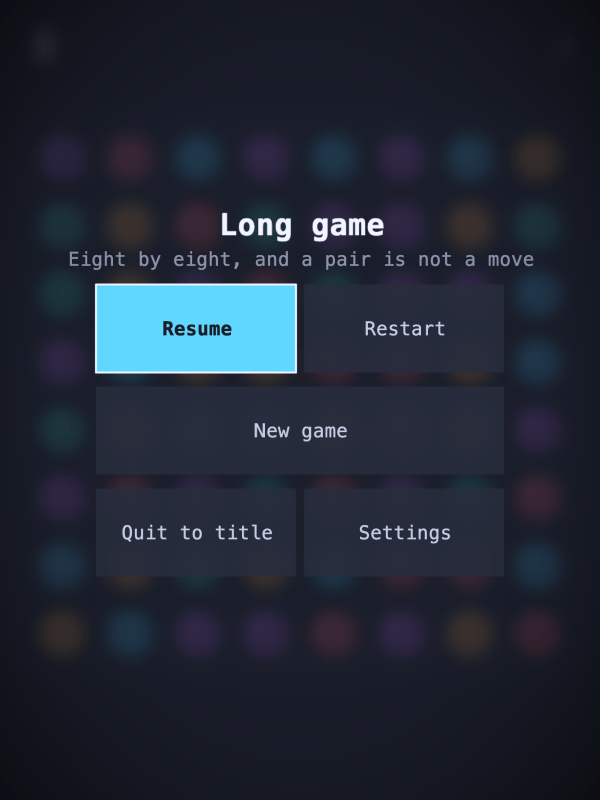
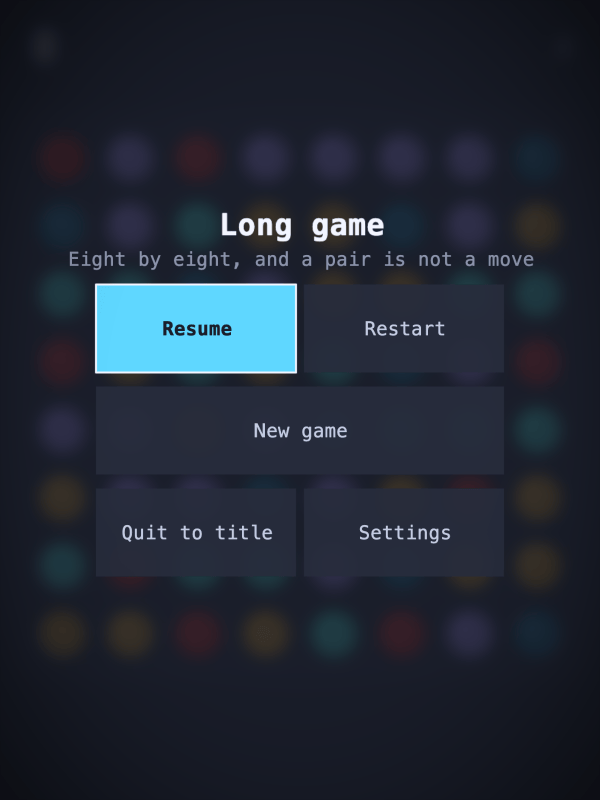
Dot colours chosen for the worst pair, and a paper light theme
Both sets were measured and both failed something. The dark theme's blue
and teal were ΔE 11.9 apart for a player with full colour vision, under
the 15 floor, and its worst pair under a red-green deficiency was 10.1
against a target of 8. The light theme's blue and orange sat at 1.71:1
and 1.92:1 against the well they are drawn on.

Each set is now the answer to a search over OKLCH: the five whose worst
pair is furthest apart under normal, protan, deutan and tritan vision at
once, every dot clearing 3:1 against its own grounds, no two hues within
34 degrees, and each hue held within 20 degrees of the one it replaces so
purple is still purple. Worst pair, colour-blind: 18.3 dark and 16.9
light, against 10.1 and 12.1. Full colour: 25.0 and 17.4.

One set for both themes was the other option and costs about half of
that - a colour far from near-black and far from paper is confined to a
narrow band of lightness, and five hues in one band lose the lightness
differences a deficiency has left to go on. Two sets were already what
the file holds, so keeping two is free.

The light theme is paper rather than paper-white, which the same search
says is free: measured across grounds from white down to Y 0.67, where it
sits makes no difference to how far apart the five can be kept. So it is
chosen for what it is like to look at. The inks are warmed with it and
hold their old lightness, so nothing that passed before stops passing.
[…]

diff --git a/src/palette.js b/src/palette.js
@@ -6,9 +6,26 @@
 //
 // The dot hues are the 32blit game's, which in turn are the original RaphaelJS
 // game's: purple, blue, teal, red, orange. `base` is a dot at rest and `bright`
-// is one in the chain, exactly the pairing the 32blit version drew with. The dark
-// theme lifts both, since a saturated mid-tone that reads well on white goes muddy
-// on near-black.
+// is one in the chain, exactly the pairing the 32blit version drew with. Each theme
+// carries its own set, since a saturated mid-tone that reads well on paper goes muddy
+// on near-black - and one set for both grounds costs most of what separates the five.
+//
+// The five are chosen, not picked: a search over OKLCH for the set whose *worst pair* is
+// furthest apart, under normal vision and under simulated protanopia, deuteranopia and
+// tritanopia at once, subject to every dot clearing 3:1 against the board it sits on and
+// no two hues landing within 34 degrees of each other. Each hue is held within 20 degrees
+// of the one it replaces, so purple is still purple. Distance is measured in OKLab and the
+// deficiencies with the Machado 2009 matrices, clamped back into sRGB before measuring -
+// unclamped, a simulation that has merely left the gamut reads as two colours far apart.
+//
+// What that buys, as the worst pair in each set: 18.3 against 10.1 for the dark theme, and
+// 16.9 against 12.1 for the light one, where 8 is the least a pair can differ by and still
+// be told apart without a second channel to go on.
+//
+// `bright` is derived rather than chosen: the same hue and chroma, lifted 0.07 in OKLCH
+// lightness. Only a little, because a linked dot is already carrying the glow layer and a
+// pale bright on top of that puts the whole chain to white - the hue has to survive its
+// own bloom.
 
 // How many dot colours a board deals from. The themes must each list this many.
 export const DOT_COLOURS = 5
@@ -20,19 +37,21 @@ export const DOT_COLOURS = 5
 // still read as dots: how far is CONFIG.SHAPE_STRENGTH, and every shape dents its edges by
 // the same fraction of the radius whatever its side count.
 //
-// Which shape goes on which colour is not arbitrary. Red-green deficiency is far and away
-// the common case, and it confuses red with teal, red with orange, and purple with blue -
-// so those three pairs get the shapes that look least alike, and the round one goes to a
-// colour whose partners are already strongly marked:
+// Which shape goes on which colour is not arbitrary. It answers the pairs the palette above
+// leaves closest together, which are measured rather than guessed:
 //
 //   purple  triangle, point up      blue    square
 //   teal    square, turned 45       red     triangle, point down
 //   orange  round
 //
-// Purple against blue is a triangle against a square; red against orange is a triangle
-// against a circle; red against teal is three corners against four, turned. What is left
-// weakest - a square against a diamond, for blue against teal - is a blue-yellow
-// confusion, which is the rare one.
+// Teal against orange is the closest pair under a red-green deficiency in both themes, and
+// it gets four corners against none. Purple against blue is the closest the dark theme
+// leaves for full colour vision, and gets three corners against four. What is left weakest
+// is a square against a diamond, the same shape turned - which falls on blue against teal,
+// the closest pair the light theme leaves for full colour vision. Those two are far enough
+// apart in lightness to carry it between them; if that pair ever needs more, the shape to
+// move is teal's, since orange is marked by having no corners at all rather than by which
+// ones it has.
 export const DOT_SHAPES = [
   { sides: 3, turn: -Math.PI / 2 }, // purple: point up
   { sides: 4, turn: 0 }, // blue: square
@@ -71,54 +90,71 @@ const DARK = {
   // How much light the whole theme throws into the bloom pass. Dark is where the
   // glow belongs, so it gets all of it.
   bloom: 1,
-  // The bright variant is only a little brighter than the base. A dot in a chain
-  // is already carrying the glow layer, and a pale bright on top of that puts the
-  // whole chain to white: the hue has to survive its own bloom.
+  // Deliberately uneven in lightness, which is what a red-green deficiency has left to go
+  // on once it has lost the hue: teal is the brightest thing on the board and blue is the
+  // dimmest, and that gap is most of why the two do not collapse into each other.
   dots: [
-    { base: "#b455e6", bright: "#c86ff5" }, // purple
-    { base: "#3cc4ff", bright: "#5fd2ff" }, // blue
-    { base: "#2bbfae", bright: "#45d3c1" }, // teal
-    { base: "#ff5566", bright: "#ff7079" }, // red
-    { base: "#ffa640", bright: "#ffb85e" }, // orange
+    { base: "#ab8efe", bright: "#b096fd" }, // purple
+    { base: "#067396", bright: "#2b88ac" }, // blue
+    { base: "#38e8d1", bright: "#6dfde7" }, // teal
+    { base: "#d71908", bright: "#f13c29" }, // red
+    { base: "#ec9f07", bright: "#feb02e" }, // orange
   ],
 }
 
+// Paper rather than paper-white. A field at full scale is the brightest thing a screen can
+// do and it is being looked at for as long as a game lasts, so the whole theme is stepped
+// down and warmed: the dots have to clear 3:1 against this and, measured across every
+// ground from white down to a good deal dimmer than this, where it sits makes no difference
+// to how far apart the five can be kept. So it is chosen for how it is to look at.
+//
+// The inks are warmed with it and hold their old lightness, so nothing that passed against
+// a cool white stops passing here.
 const LIGHT = {
   id: "light",
   name: "Light",
-  page: "#eef0f4",
-  background: "#ffffff",
-  well: "#f2f3f7",
-  cell: "#e7e9f0",
-  panel: "#ffffff",
-  panelEdge: "#d5d8e2",
+  page: "#e9e3d8",
+  background: "#faf7f2",
+  well: "#f0ece4",
+  cell: "#e4dfd5",
+  panel: "#fdfbf7",
+  panelEdge: "#d8d1c3",
   text: {
-    bright: "#181b25",
-    normal: "#3f4557",
-    dim: "#6f7689",
-    faint: "#a7adbd",
+    bright: "#1e1a14",
+    normal: "#4b443a",
+    dim: "#7a7266",
+    faint: "#aca492",
   },
-  cursor: "#8b93ab",
-  cursorActive: "#3f4557",
+  cursor: "#8f8677",
+  cursorActive: "#4b443a",
   accent: "#0091c2",
   warn: "#d92b3f",
-  // A little ink rather than a lot of the background: dimming a white field with white
-  // does not dim it, it bleaches whatever is on it.
-  scrim: { color: "#181b25", alpha: 0.12 },
+  // A little ink rather than a lot of the background: dimming a pale field with more of its
+  // own colour does not dim it, it bleaches whatever is on it.
+  scrim: { color: "#1e1a14", alpha: 0.12 },
   // Higher than the dark theme's: dark text needs a paler ground under it than light
   // text needs over a dark one.
   frost: 0.9,
-  // A glow laid over white does not read as light, it reads as desaturation: these
-  // dot colours already have a channel at full scale, so adding to them only lifts
-  // the other two and turns red into pink. The light theme therefore takes a little
-  // of it - enough to soften the edge of a long chain and no more.
+  // A glow laid over a pale field does not read as light, it reads as desaturation: adding
+  // to a colour lifts whatever channel it has least of, which is what turns a red to pink.
+  // The light theme therefore takes a little of it - enough to soften the edge of a long
+  // chain and no more.
   bloom: 0.22,
+  // Deeper than the dark theme's, and they have to be: a dot clearing 3:1 against paper is
+  // a dot well down from it. So red is a maroon here and orange is a burnt one, which is
+  // what the ground costs and the whole of what it costs.
+  //
+  // `bright` goes *down* from the base here where the dark theme's goes up. The name is the
+  // role - the colour a dot wears in a chain - and what reads as more of a colour depends on
+  // what it is being read against: away from near-black is lighter, away from paper is
+  // deeper. Lifting these would walk a linked dot toward the ground it has to stand out
+  // from, and took the chain under 3:1 against the well.
   dots: [
-    { base: "#9900cc", bright: "#bb22ee" }, // purple
-    { base: "#00ccff", bright: "#22eeff" }, // blue
-    { base: "#009999", bright: "#22bbbb" }, // teal
-    { base: "#ff3333", bright: "#ff5555" }, // red
-    { base: "#ff9933", bright: "#ffbb55" }, // orange
+    { base: "#971ef8", bright: "#7f02d5" }, // purple
+    { base: "#115785", bright: "#00436c" }, // blue
+    { base: "#10919d", bright: "#037a85" }, // teal
+    { base: "#8a0316", bright: "#6a000d" }, // red
+    { base: "#bc670c", bright: "#a05602" }, // orange
   ],
 }
 
